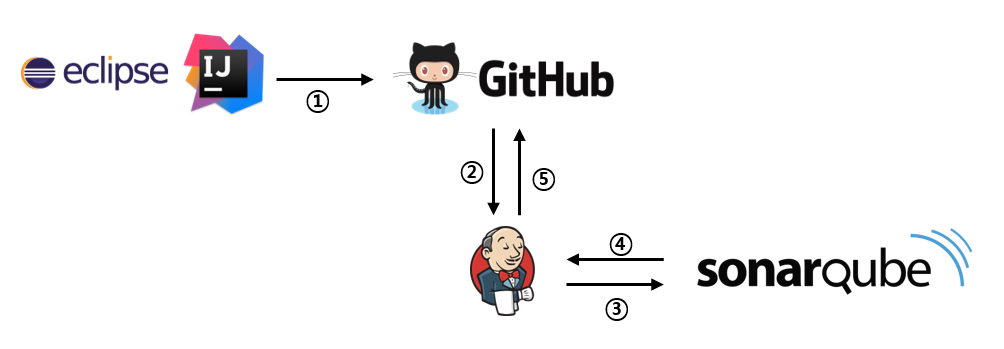
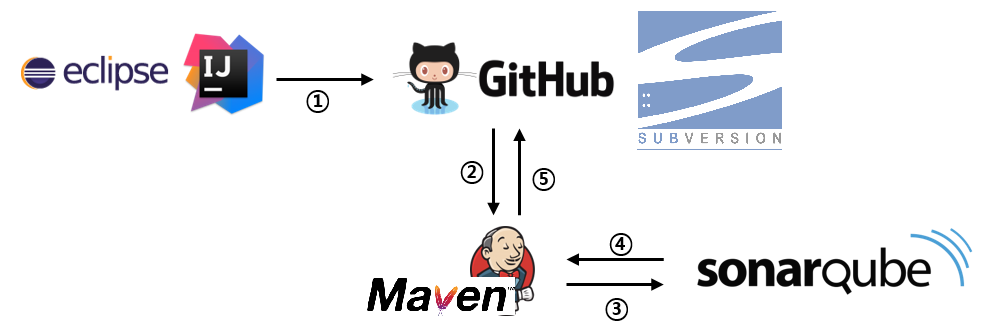
- sornar + ant 사용법 추가 - 컨셉이미지 수정

Changed region(s): [[0.367, 0.3625, 1.0, 0.9668], [0.0, 0.0906, 0.7951, 0.4532], [0.6422, 0.0302, 0.7951, 0.1813]]

diff --git a/SonarQube/README.md b/SonarQube/README.md
@@ -1,6 +1,6 @@
 # Install SonarQube With Jenkins
 
-Jenkins + SonarQube + SVN
+Jenkins + SonarQube + SVN + Maven
 
 ![SonarQube 컨셉디자인](./images/concept.png)
 
@@ -43,6 +43,8 @@ Started SonarQube.
 
 ### SonarQube setting for SVN
 Administration (http://sonarqube:9000/sonarqube/admin/settings?category=scm) -> SCM -> SVN
+
+git을 사용하면 SonarQube marketplace 에서 git 플러그인을 설치후 셋팅
 
 #### 해당 프로젝트에 접근 가능한 svn 계정 셋팅
 1. 글로벌 셋팅 방법
@@ -122,31 +124,39 @@ jenkins 관리 -> Global Tool Configuration (http://jenkins:8080/jenkins/configu
     ![젠킨스job 셋팅](./images/jenkins-sonarqube-jobs-build.PNG)
 
 
-## 6. 직접 sonar-scanner를 이용할 경우(MAVEN 사용시 생략가능)
-해당 프로젝트 최상위 디렉토리에 sonar-project.properties 생성
+## 6. 번외 JENKINS + ANT(unused MAVEN) 직접 sonar-scanner를 이용할 경우
 
-```bash
-# sonar-project.properties
-# Analysis Parameters https://docs.sonarqube.org/latest/analysis/analysis-parameters/
-# must be unique in a given SonarQube instance
-sonar.projectKey=소나큐브에서 생성된 프로젝트 KEY
-# this is the name and version displayed in the SonarQube UI. Was mandatory prior to SonarQube 6.1.
-sonar.projectName=소나큐브에서 생성된 프로젝트 NAME
-sonar.projectVersion=1.0
+1. 해당 프로젝트 최상위 디렉토리(/project/maven-project/)에 sonar-project.properties 생성
 
-# Path is relative to the sonar-project.properties file. Replace "\" by "/" on Windows.
-# This property is optional if sonar.modules is set.
-sonar.language=java
-sonar.sources=src/main/java
-sonar.java.binaries=target/classes
+    Jenkins -> job configure -> Build -> Execute SonarQube Scanner -> Path to project properties 에 해당 sonar-project.properties 위치 입력
 
-# Encoding of the source code. Default is default system encoding
-#sonar.sourceEncoding=UTF-8
+    예_) /project/maven-project/sonar-project.properties
 
-#sonar.svn.username=SVN계정
-#sonar.svn.password.secured=SVN패스워드
+    ```bash
+    # sonar-project.properties
+    # Analysis Parameters https://docs.sonarqube.org/latest/analysis/analysis-parameters/
+    # must be unique in a given SonarQube instance
+    sonar.projectKey=소나큐브에 생성할 프로젝트 KEY
+    # this is the name and version displayed in the SonarQube UI. Was mandatory prior to SonarQube 6.1.
+    sonar.projectName=소나큐브에 생성할 프로젝트 NAME
+    sonar.projectVersion=1.0
 
-```
+    # Path is relative to the sonar-project.properties file. Replace "\" by "/" on Windows.
+    # This property is optional if sonar.modules is set.
+    sonar.projectBaseDir=/project/maven-project/
+    sonar.sources=src/main/java
+    sonar.java.binaries=target/classes
+
+    # Encoding of the source code. Default is default system encoding
+    #sonar.sourceEncoding=UTF-8
+
+    #sonar.svn.username=SVN계정
+    #sonar.svn.password.secured=SVN패스워드
+    ```
+
+1. Jenkins -> job configure -> Build -> Execute SonarQube Scanner -> Analysis properties 입력
+
+    ![jenkins 설정](./images/jenkins-sonarqube-jobs-build-ant.PNG)
 
 ## 7. SonarQube Database setting
 
@@ -172,7 +182,6 @@ sonar.jdbc.url=jdbc:mysql://localhost:3306/sonar?useUnicode=true&characterEncodi
 root:/usr/lib/sonarqube-6.7.6/bin/linux-x86-64$ ./sonar.sh stop
 root:/usr/lib/sonarqube-6.7.6/bin/linux-x86-64$ ./sonar.sh start
 ```
-
 
 ## :bomb: troubleshooting
 1. [ERROR] Failed to execute goal org.codehaus.mojo:sonar-maven-plugin:2.6:sonar (default-cli) on project privia-payment: Can not execute SonarQube analysis: Plugin org.codehaus.sonar:sonar-maven3-plugin:6.7.6.38781 or one of its dependencies could not be resolved: Could not find artifact org.codehaus.sonar:sonar-maven3-plugin:jar:6.7.6.38781 in central (http://repo.maven.apache.org/maven2) -> [Help 1]
